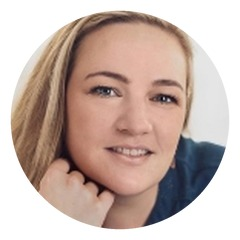
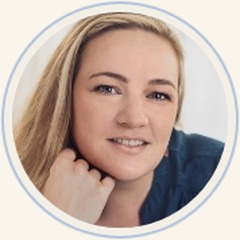
Résultats clients : titre simplifié, photos identiques aux visuels
Claude-Session: https://claude.ai/code/session_01H6ppEmAx93WT3bqzY4M5Cu

diff --git a/index.html b/index.html
@@ -226,7 +226,7 @@ footer .legal{width:100%;border-top:1px solid rgba(255,255,255,.2);margin-top:30
 .r-card p{font-family:'Playfair Display',serif;font-size:19px;line-height:1.55;color:var(--bleu);flex:1}
 .r-card p em.r{color:var(--rouge)}
 .r-who{display:flex;align-items:center;gap:14px;margin-top:24px}
-.r-who img,.r-ini{width:68px;height:68px;border-radius:50%;object-fit:cover;border:2px solid #A9BEDF;background:#fff}
+.r-who img,.r-ini{width:76px;height:76px;border-radius:50%;object-fit:cover}
 .r-ini{display:flex;align-items:center;justify-content:center;background:var(--bleu);color:#fff;font-family:'Playfair Display',serif;font-size:24px}
 .r-who strong{display:block;color:var(--bleu);font-size:17px}
 .r-who span{color:var(--rouge);font-size:14px;font-weight:600}
@@ -277,18 +277,17 @@ footer .legal{width:100%;border-top:1px solid rgba(255,255,255,.2);margin-top:30
 <!-- RÉSULTATS CLIENTS -->
 <section class="resultats" id="resultats-clients">
   <div class="wrap">
-    <span class="eyebrow" style="display:block;text-align:center">Résultats clients</span>
-    <h2>Ils l'ont vécu<span style="color:var(--rouge)">.</span></h2>
+    <h2>Résultats clients<span style="color:var(--rouge)">.</span></h2>
     <div class="rgrid">
       <div class="r-card">
         <div class="stars">★★★★★</div>
         <p>Cheffe d'entreprise en Occitanie depuis près de 15 ans, Aurélie m'a accompagnée en 2025 et j'ai choisi de renouveler l'accompagnement, car diriger en 2026 ne ressemble plus à ce que je faisais il y a dix ans. Son accompagnement m'a aidée à rééquilibrer ma posture et mon positionnement de dirigeante, à piloter mes équipes autrement et à continuer de monter en compétences dans un contexte exigeant. Aujourd'hui, elle accompagne aussi mes salariés. <em class="r">Structurée, exigeante et très humaine.</em> Je recommande vivement.</p>
-        <div class="r-who"><img src="temoignage-laetitia.jpg?v=2" alt="Laetitia" width="64" height="64"><div><strong>Laetitia</strong><span>Dirigeante à Perpignan</span></div></div>
+        <div class="r-who"><img src="temoignage-laetitia.jpg?v=3" alt="Laetitia" width="64" height="64"><div><strong>Laetitia</strong><span>Dirigeante à Perpignan</span></div></div>
       </div>
       <div class="r-card">
         <div class="stars">★★★★★</div>
         <p>Cette année d'accompagnement a marqué un vrai tournant pour moi. Pour reprendre la main sur mon activité, il me fallait reprendre la main sur ma posture. En un an, j'ai <em class="r">triplé</em> mon chiffre d'affaires.</p>
-        <div class="r-who"><img src="temoignage-audrey.jpg" alt="Audrey" width="64" height="64"><div><strong>Audrey</strong><span>Dirigeante à Toulouse</span></div></div>
+        <div class="r-who"><img src="temoignage-audrey.jpg?v=3" alt="Audrey" width="64" height="64"><div><strong>Audrey</strong><span>Dirigeante à Toulouse</span></div></div>
       </div>
     </div>
   </div>
